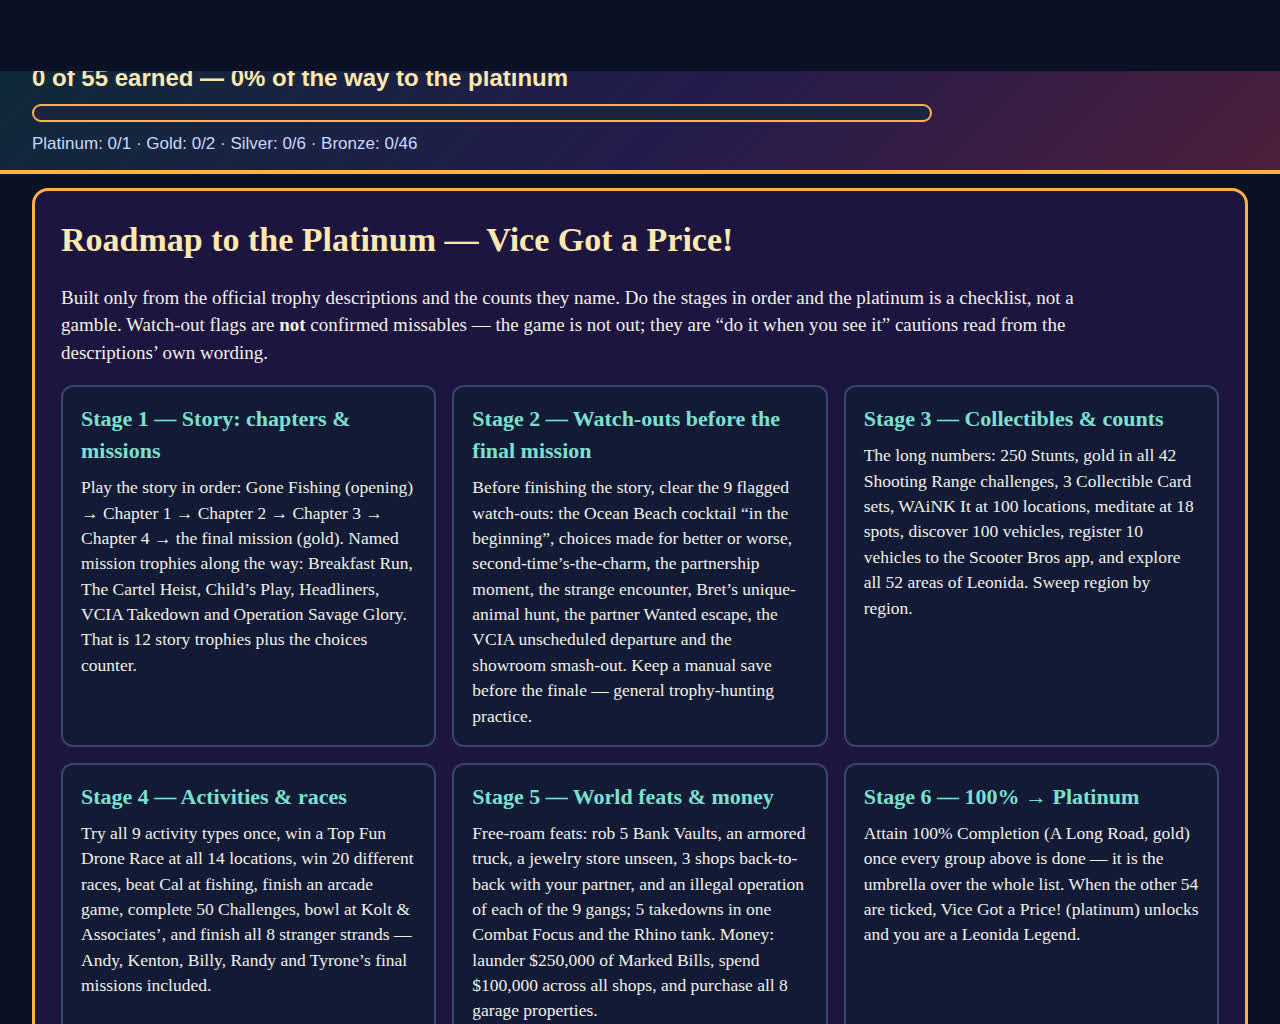
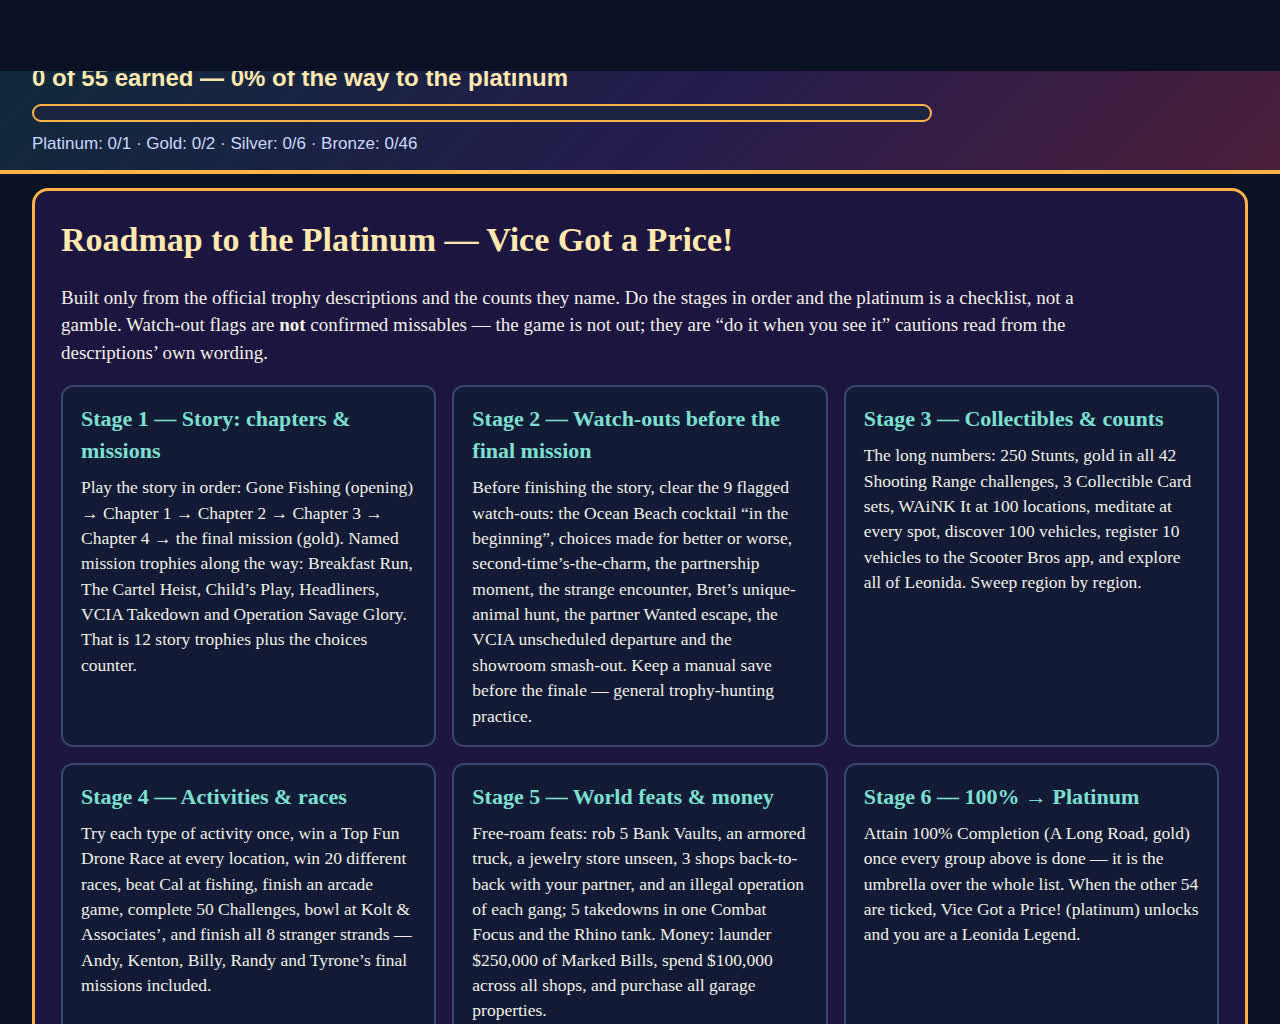
Correct the guides: remove counts no source supports, cite the one tracked count (42 range challenges) properly

diff --git a/app/index.html b/app/index.html
@@ -63,9 +63,9 @@
   <div class="stages">
     <article class="stage"><h3>Stage 1 — Story: chapters &amp; missions</h3><p>Play the story in order: Gone Fishing (opening) → Chapter 1 → Chapter 2 → Chapter 3 → Chapter 4 → the final mission (gold). Named mission trophies along the way: Breakfast Run, The Cartel Heist, Child’s Play, Headliners, VCIA Takedown and Operation Savage Glory. That is 12 story trophies plus the choices counter.</p></article>
     <article class="stage"><h3>Stage 2 — Watch-outs before the final mission</h3><p>Before finishing the story, clear the 9 flagged watch-outs: the Ocean Beach cocktail “in the beginning”, choices made for better or worse, second-time’s-the-charm, the partnership moment, the strange encounter, Bret’s unique-animal hunt, the partner Wanted escape, the VCIA unscheduled departure and the showroom smash-out. Keep a manual save before the finale — general trophy-hunting practice.</p></article>
-    <article class="stage"><h3>Stage 3 — Collectibles &amp; counts</h3><p>The long numbers: 250 Stunts, gold in all 42 Shooting Range challenges, 3 Collectible Card sets, WAiNK It at 100 locations, meditate at 18 spots, discover 100 vehicles, register 10 vehicles to the Scooter Bros app, and explore all 52 areas of Leonida. Sweep region by region.</p></article>
-    <article class="stage"><h3>Stage 4 — Activities &amp; races</h3><p>Try all 9 activity types once, win a Top Fun Drone Race at all 14 locations, win 20 different races, beat Cal at fishing, finish an arcade game, complete 50 Challenges, bowl at Kolt &amp; Associates’, and finish all 8 stranger strands — Andy, Kenton, Billy, Randy and Tyrone’s final missions included.</p></article>
-    <article class="stage"><h3>Stage 5 — World feats &amp; money</h3><p>Free-roam feats: rob 5 Bank Vaults, an armored truck, a jewelry store unseen, 3 shops back-to-back with your partner, and an illegal operation of each of the 9 gangs; 5 takedowns in one Combat Focus and the Rhino tank. Money: launder $250,000 of Marked Bills, spend $100,000 across all shops, and purchase all 8 garage properties.</p></article>
+    <article class="stage"><h3>Stage 3 — Collectibles &amp; counts</h3><p>The long numbers: 250 Stunts, gold in all 42 Shooting Range challenges, 3 Collectible Card sets, WAiNK It at 100 locations, meditate at every spot, discover 100 vehicles, register 10 vehicles to the Scooter Bros app, and explore all of Leonida. Sweep region by region.</p></article>
+    <article class="stage"><h3>Stage 4 — Activities &amp; races</h3><p>Try each type of activity once, win a Top Fun Drone Race at every location, win 20 different races, beat Cal at fishing, finish an arcade game, complete 50 Challenges, bowl at Kolt &amp; Associates’, and finish all 8 stranger strands — Andy, Kenton, Billy, Randy and Tyrone’s final missions included.</p></article>
+    <article class="stage"><h3>Stage 5 — World feats &amp; money</h3><p>Free-roam feats: rob 5 Bank Vaults, an armored truck, a jewelry store unseen, 3 shops back-to-back with your partner, and an illegal operation of each gang; 5 takedowns in one Combat Focus and the Rhino tank. Money: launder $250,000 of Marked Bills, spend $100,000 across all shops, and purchase all garage properties.</p></article>
     <article class="stage"><h3>Stage 6 — 100% → Platinum</h3><p>Attain 100% Completion (A Long Road, gold) once every group above is done — it is the umbrella over the whole list. When the other 54 are ticked, Vice Got a Price! (platinum) unlocks and you are a Leonida Legend.</p></article>
   </div>
 </section>

diff --git a/README.md b/README.md
@@ -26,7 +26,7 @@ then open http://localhost:8080 (use `node serve.ts --port 8901` for another por
 
 ## Sources & credits
 
-Trophy names, descriptions and grades are the official PlayStation 5 list as published by PlayStation and listed by Exophase and PSNProfiles, cross-checked between the two. Counts beyond the descriptions (for example 42 Shooting Range challenges, 52 areas of Leonida) are the tracked counts from that same list. All guide text was written for this entry; no text is copied from any guide. General trophy-hunting advice (for example keeping a manual save before the final mission) is labelled as general practice where it appears. This is a fan-made tool: no Rockstar Games logos, artwork or game screenshots are used.
+Trophy names, descriptions and grades are the official PlayStation 5 list as published by PlayStation and listed by Exophase and PSNProfiles, cross-checked between the two. Every number in the guides comes from the official descriptions themselves, except 42 Shooting Range challenges, the tracked count listed with the official list by Exophase and PSNProfiles. All guide text was written for this entry; no text is copied from any guide. General trophy-hunting advice (for example keeping a manual save before the final mission) is labelled as general practice where it appears. This is a fan-made tool: no Rockstar Games logos, artwork or game screenshots are used.
 
 ---
 
